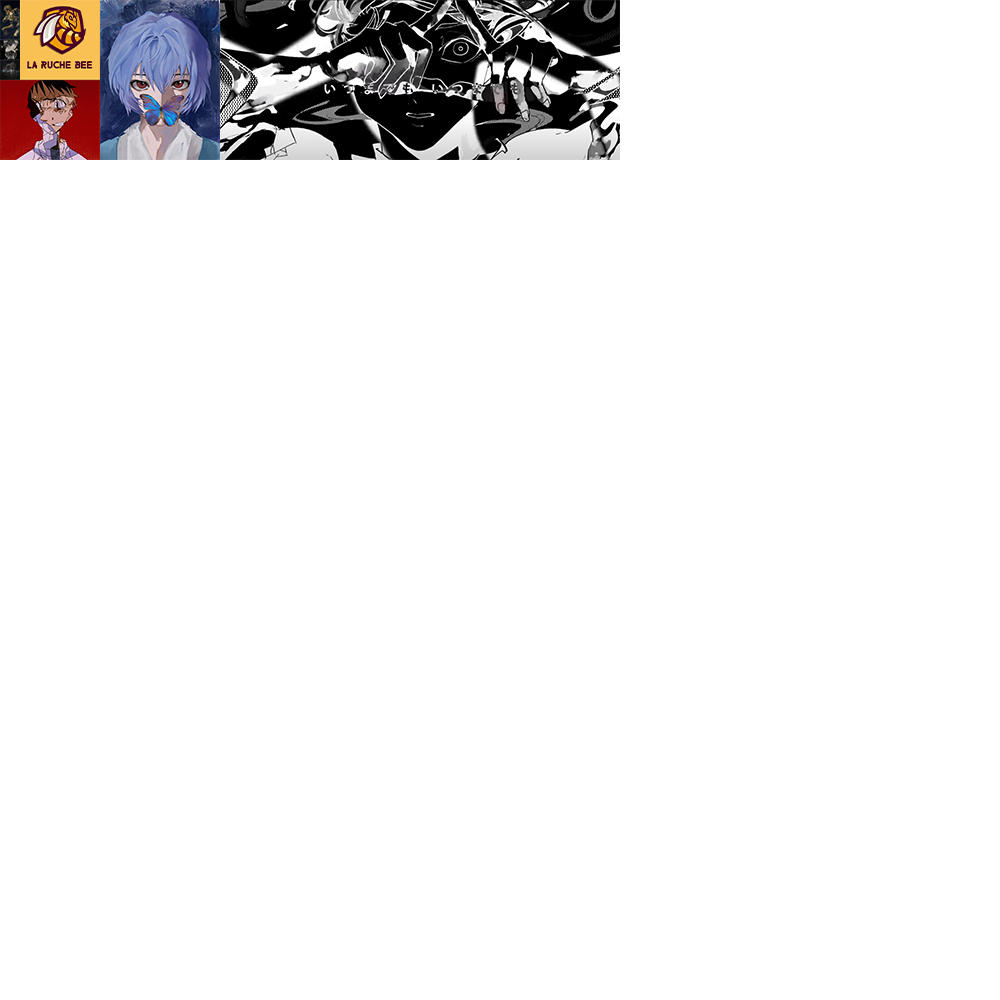
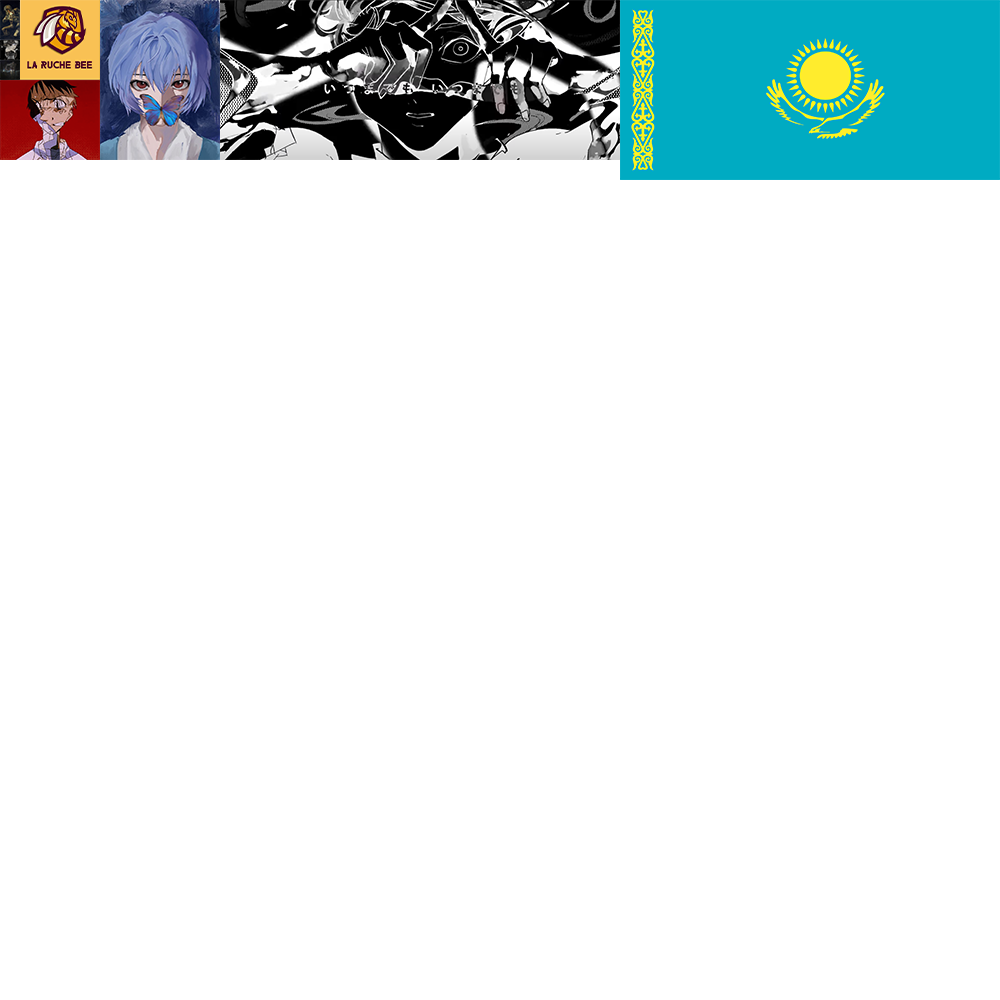
new adding kz

Changed region(s): [[0.62, 0.0, 1.0, 0.186]]

diff --git a/src/components/pages/Main.jsx b/src/components/pages/Main.jsx
@@ -7,13 +7,14 @@ const Main = () => {
   const [tooltip, setTooltip] = useState({display: 'none', top: 0, left: 0, text: ''});
 
   const areas = [
-    {id: 1, coords: [0, 0, 20, 40], title: 'Saturn eating his son', url: '#1'},
-    {id: 2, coords: [20, 0, 100, 80], title: 'La Ruche Bee - the best cybersport team', url: '#2'},
-    {id: 3, coords: [0, 40, 20, 60], title: 'The Talos Principle', url: '#3'},
-    {id: 4, coords: [0, 60, 20, 80], title: 'Lucifer watching sins', url: '#4'},
-    {id: 5, coords: [100, 0, 220, 160], title: 'Evangelion girl', url: '#5'},
-    {id: 6, coords: [0, 80, 100, 160], title: 'Evangelion boy', url: '#6'},
-    {id: 7, coords: [220, 0, 620, 160], title: 'Страна самоцветов - ГГ аниме', url: '#7'},
+    {id: 1, coords: [0, 0, 20, 40], title: 'Saturn eating his son - 20x40', url: '#1'},
+    {id: 2, coords: [20, 0, 100, 80], title: 'La Ruche Bee - the best cybersport team - 80x80', url: '#2'},
+    {id: 3, coords: [0, 40, 20, 60], title: 'The Talos Principle - 20x20', url: '#3'},
+    {id: 4, coords: [0, 60, 20, 80], title: 'Lucifer watching sins - 20x20', url: '#4'},
+    {id: 5, coords: [100, 0, 220, 160], title: 'Evangelion girl - 120x160', url: '#5'},
+    {id: 6, coords: [0, 80, 100, 160], title: 'Evangelion boy - 100x80', url: '#6'},
+    {id: 7, coords: [220, 0, 620, 160], title: 'Страна самоцветов - ГГ аниме - 400x160', url: '#7'},
+    {id: 8, coords: [620, 0, 1000, 180], title: 'Казахстан - 380x180', url: '#9'},
   ];
 
   const handleMouseEnter = (title, coords) => {
